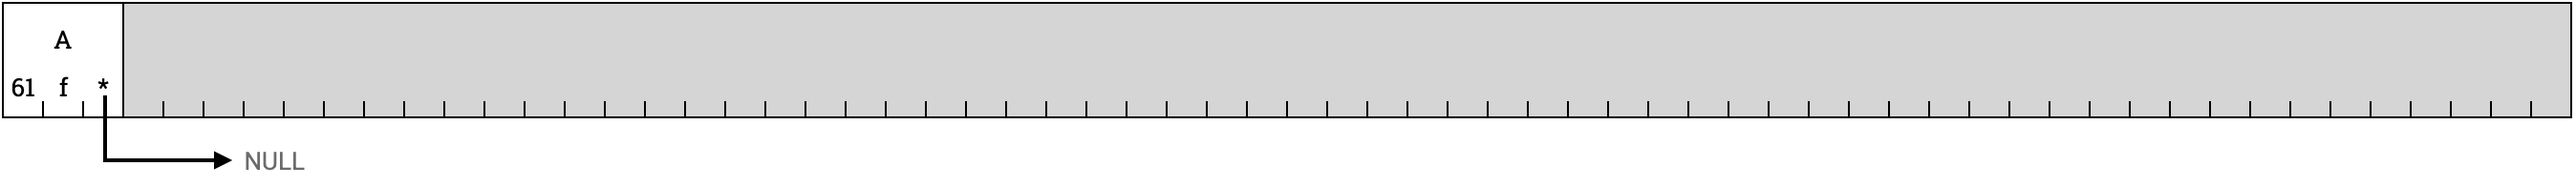
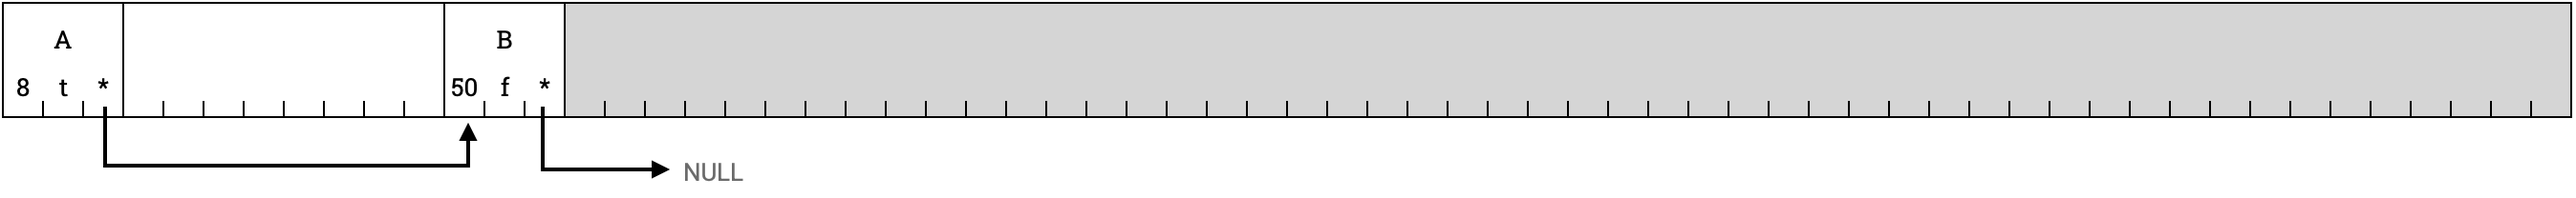
update figures

Changed region(s): [[0.0, 0.0, 1.0, 0.7347], [0.0312, 0.7959, 0.3116, 0.9184]]

diff --git a/exercises/4. Alloceren.md b/exercises/4. Alloceren.md
@@ -41,7 +41,7 @@ Deze header bevat de boekhouding van de geheugenallocator:
 De headers vormen dus een *linked list*.
 
 Een initieel blok geheugen van 64 woorden ziet dat er als volgt uit:
-![Initieel geheugenblok](figures/memory-alloc-A.png)
+![Initieel geheugenblok](figures/memory-alloc-I.png)
 
 ### Alloceren
 
@@ -57,9 +57,9 @@ Wanneer er geen ruimte is voor een blok van de gevraagde grootte,
 retourneren we de `NULL` pointer.
 
 Als voorbeeld alloceren we eerst blok A van 8 woorden:
-![Na alloceren B](figures/memory-alloc-B.png)
+![Na alloceren A](figures/memory-alloc-A.png)
 en vervolgens blok B van 16 woorden:
-![Na alloceren C](figures/memory-alloc-C.png)
+![Na alloceren B](figures/memory-alloc-B.png)
 Blok C van 31 woorden blijft over als vrij geheugen.
 
 ### Dealloceren
@@ -72,8 +72,8 @@ Wanneer we nu een nieuw blok willen alloceren,
 kunnen we controleren of dit vrije blok groot genoeg is om te gebruiken.
 Wanneer dat niet zo is zoeken we door tot we een blok hebben gevonden dat wel aan deze voorwaarde voldoet.
 
-Na het alloceren van blok D van 11 woorden, dat te groot is om in blok A te zetten, ziet ons geheugen er als volgt uit:
-![Na allocatie D](figures/memory-alloc-D.png)
+Na het alloceren van blok C van 11 woorden, dat te groot is om in blok A te zetten, ziet ons geheugen er als volgt uit:
+![Na allocatie C](figures/memory-alloc-C.png)
 
 ### Blokken samenvoegen
 
